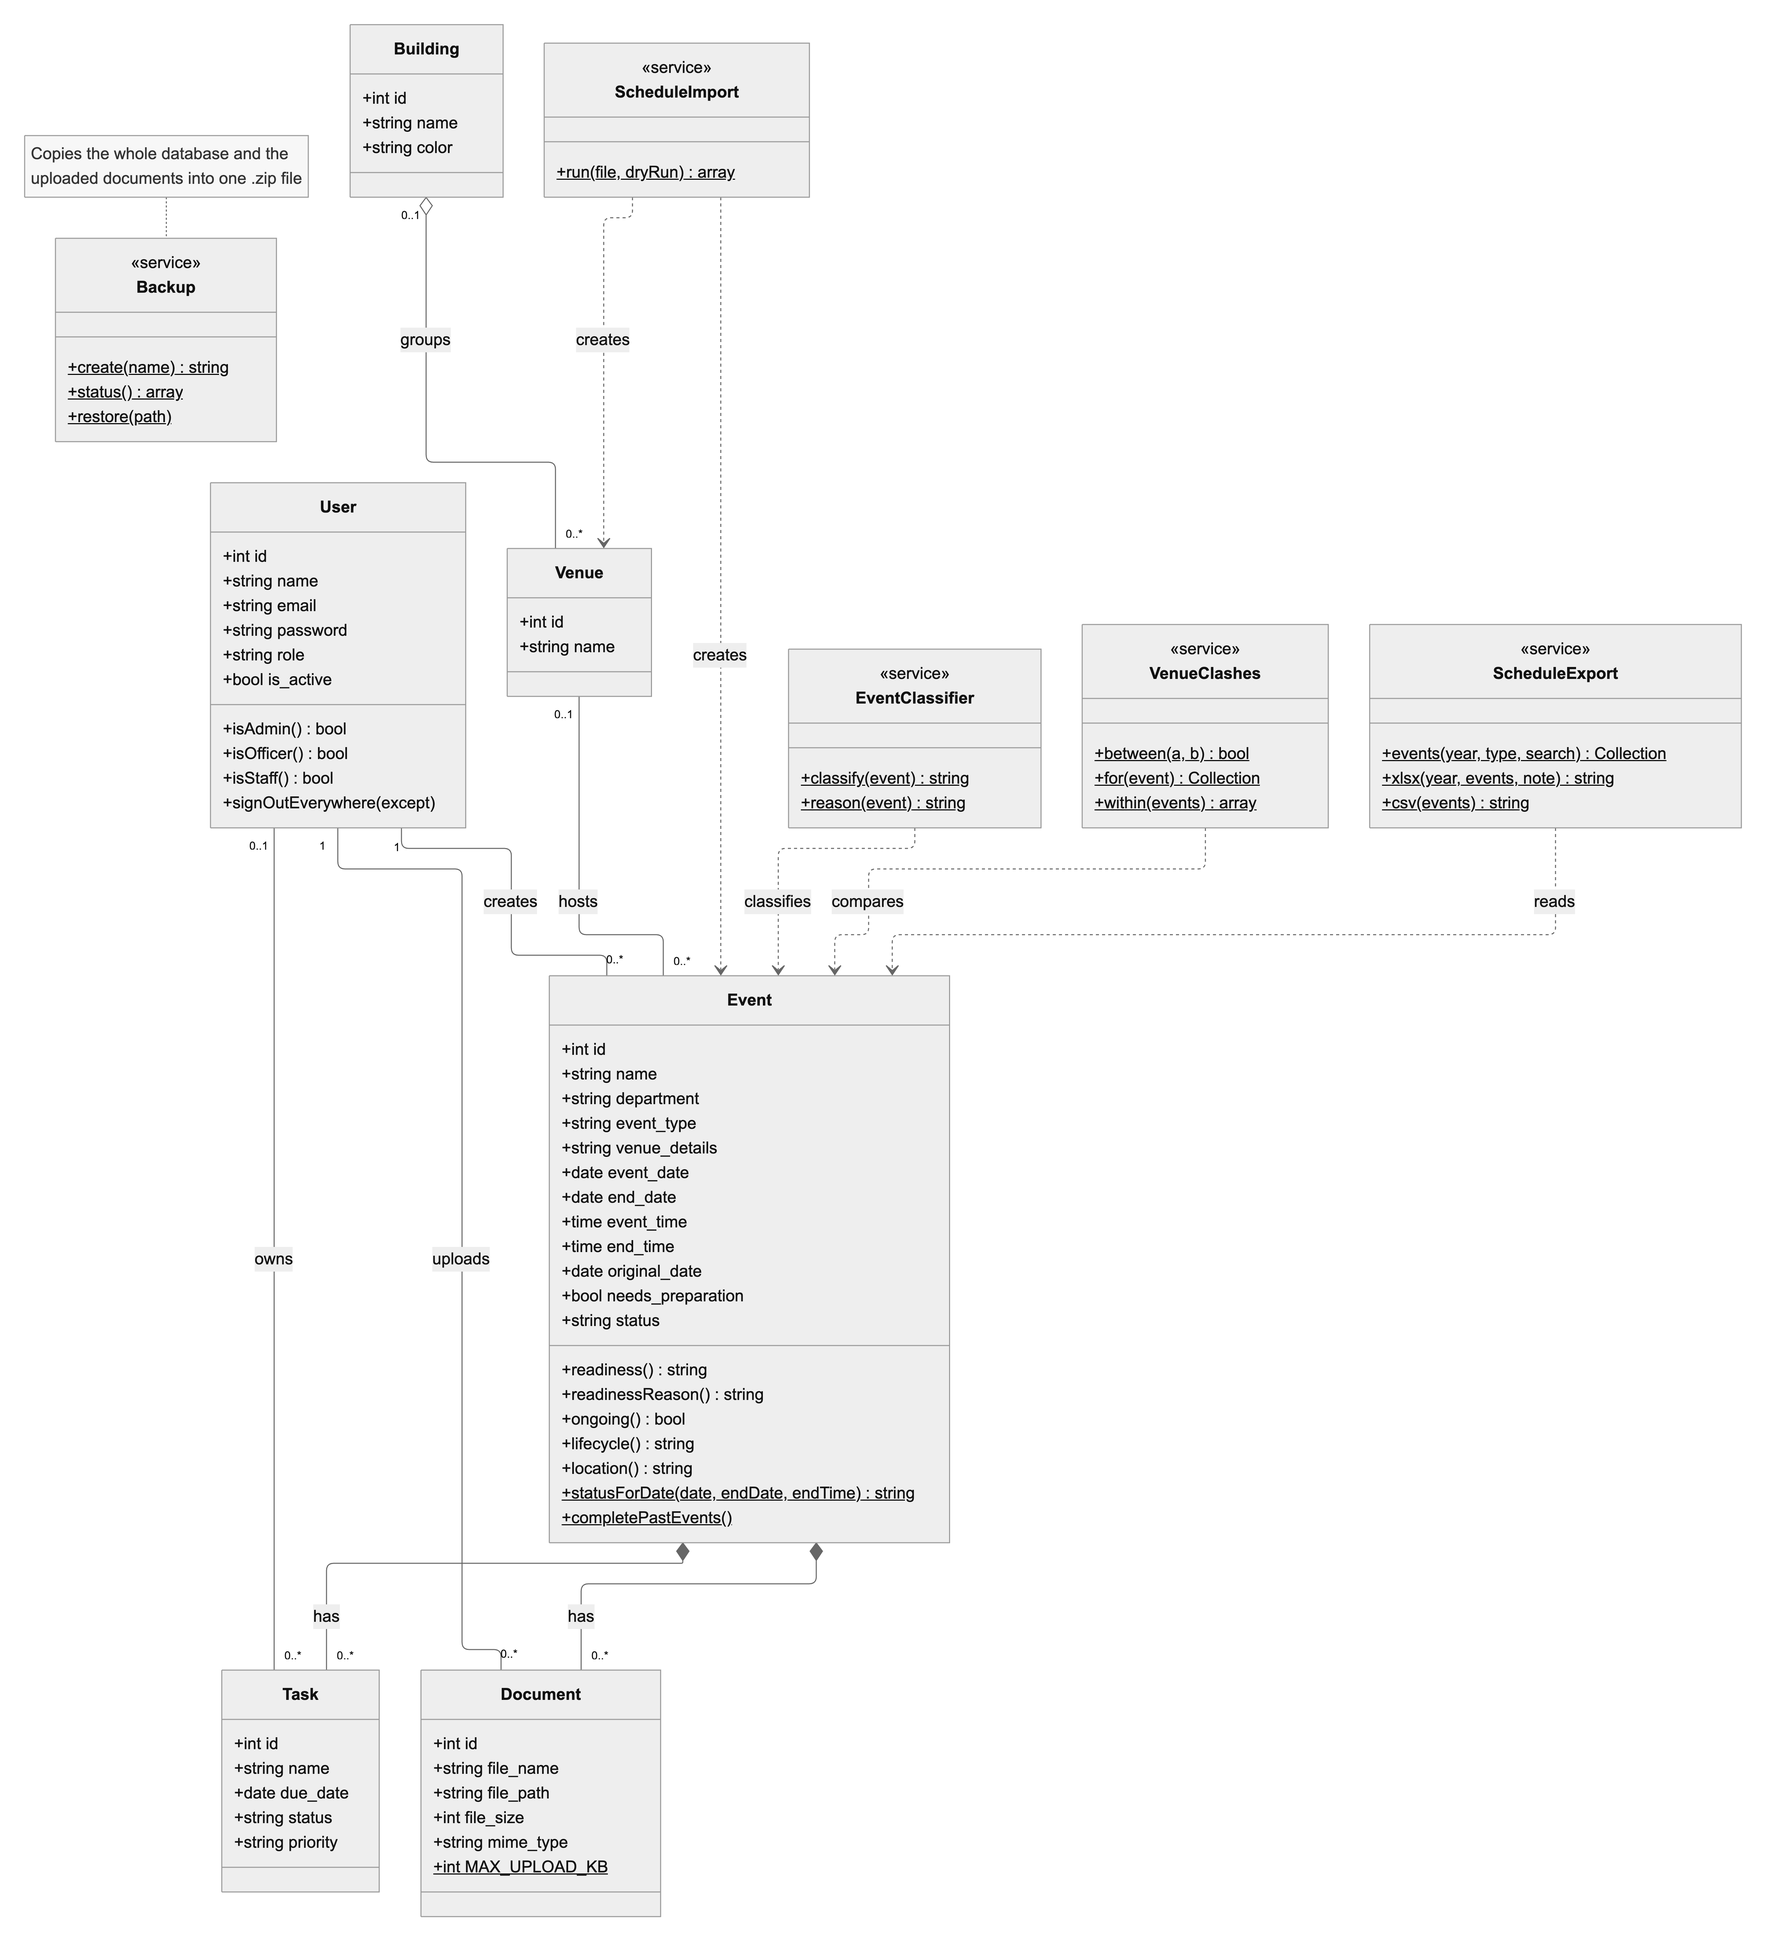
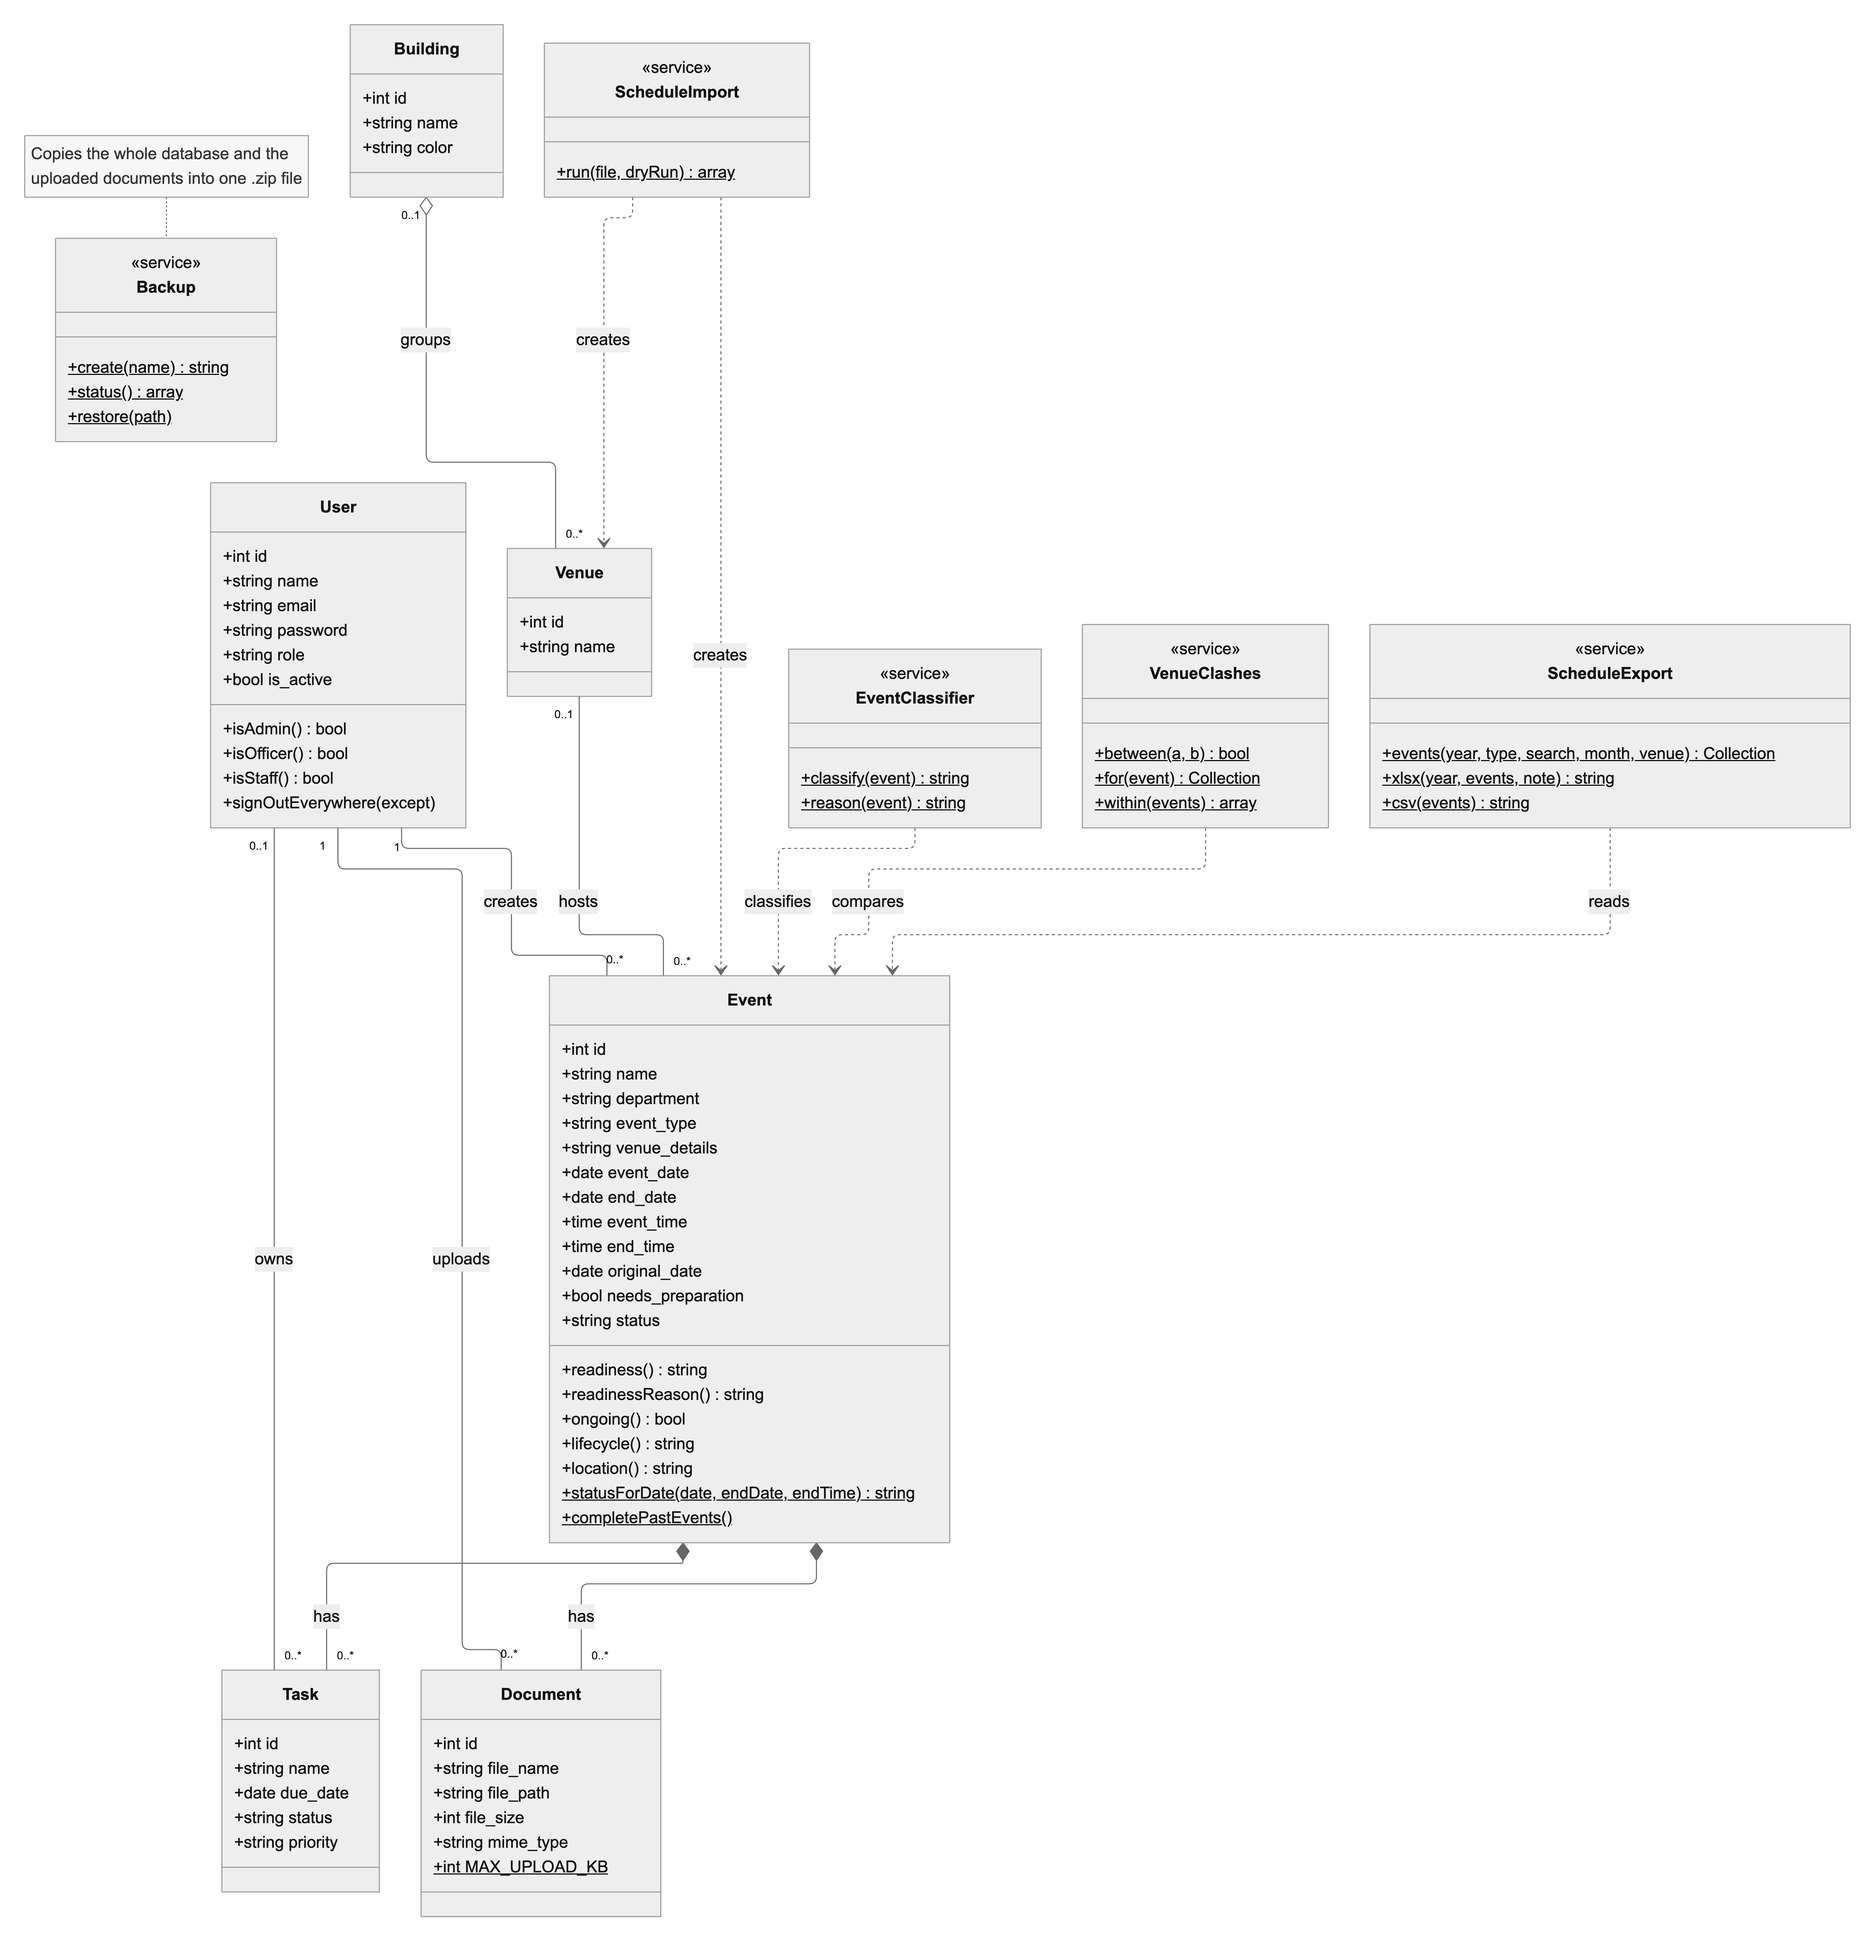
Update the class diagram for the month and venue export, and add the clean Appendix D code file

diff --git a/docs/paper/Paper_Descriptions.md b/docs/paper/Paper_Descriptions.md
@@ -102,7 +102,7 @@ Process 1.0 authenticates users and manages accounts using the user records. Pro
 
 Figure D.5 shows the UML class diagram of the main classes of the EMO Tracker backend. The domain classes correspond to the database tables. User has methods that check the user's role and sign the account out of every device. Event is the central class, with methods that work out its readiness and the reason for it, whether it is ongoing, its status and its location, and static methods that set a status from a date and mark finished events completed. Task, Document, Venue and Building hold the data shown in the entity relationship diagram. A User creates Events, may own Tasks and uploads Documents, and a Venue hosts Events. An Event is composed of its Tasks and Documents (filled diamonds), which cannot exist without it and are deleted with it, while a Building aggregates Venues (hollow diamond), which remain if the building is deleted.
 
-The service classes, marked «service», hold the business rules as static methods. EventClassifier classifies readiness, VenueClashes compares bookings for overlaps, ScheduleImport creates events and any missing venues from the spreadsheet, ScheduleExport reads events to build the Excel file, and Backup copies the whole database and the uploaded documents into one .zip file. The controllers and the framework's classes are left out for readability.
+The service classes, marked «service», hold the business rules as static methods. EventClassifier classifies readiness, VenueClashes compares bookings for overlaps, ScheduleImport creates events and any missing venues from the spreadsheet, ScheduleExport reads the events the Schedule shows (by year, type, month, venue or search) to build the Excel or CSV file, and Backup copies the whole database and the uploaded documents into one .zip file. The controllers and the framework's classes are left out for readability.
 
 ### Figure D.6 to D.8 - Sequence Diagram
 
